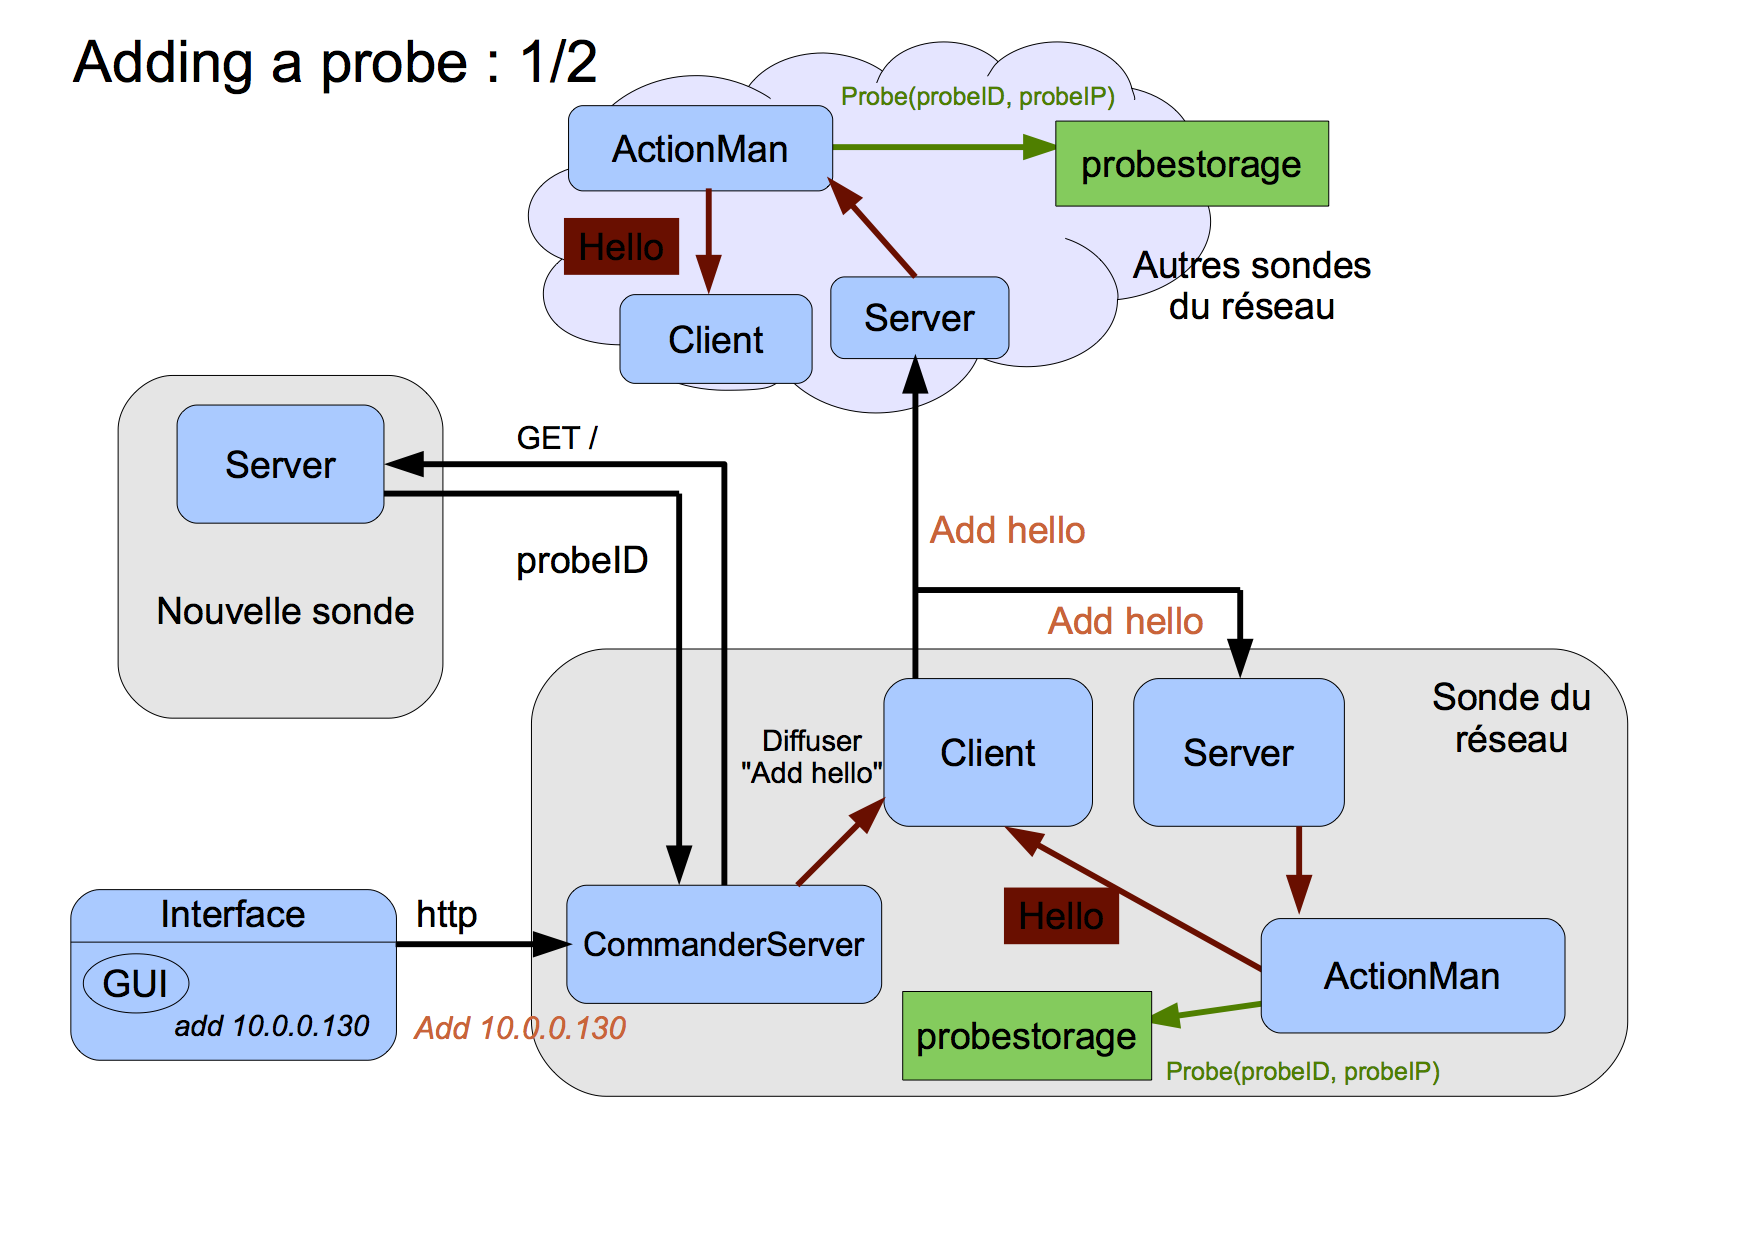
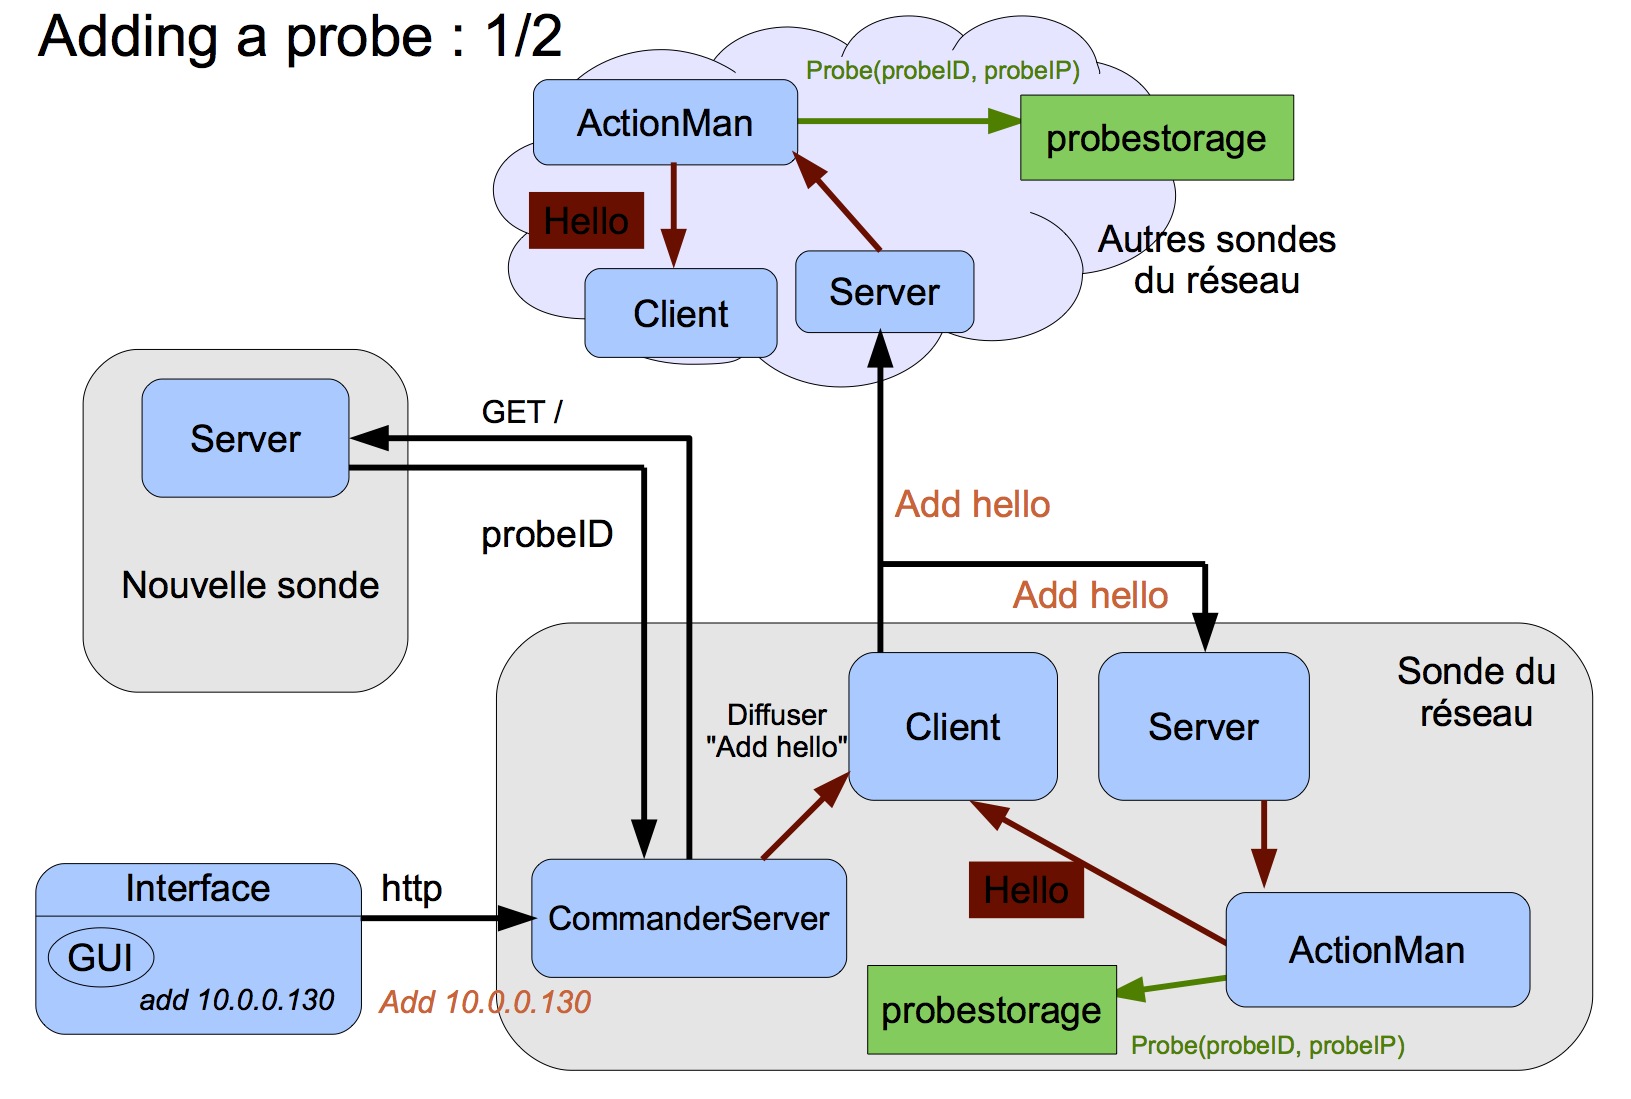
Page layout up do add section

diff --git a/docs/rapport/main.tex b/docs/rapport/main.tex
@@ -108,25 +108,20 @@
 \tableofcontents
 
 \section{NetProbes : un programme de diagnostic réseau distribué}
-Le but de ce programme est de permettre d'effectuer des tests sur un réseau donnée.
+Le but de ce programme est de permettre d'effectuer des tests sur un réseau donné.
 
-Après avoir établit un réseau de sondes par dessus le réseau test via http, on pourra lancer les tests de notre choix sur ce réseau et collecter les résultats pour analyse.
+Après avoir établi un réseau de sondes au-dessus du réseau test via http, on pourra lancer les tests de notre choix sur ce réseau et collecter les résultats pour analyse.
 
-L'architecture de l'application nous permet d'implémenter des tests à la volée. En effet, il suffit de placer un module python implémentant les bonnes fonctions dans le dossier probe/tests afin que le nouveau test puisse être utilisé. Notre but a donc plus été de proposer une méthode de synchronisation autour des tests que le code des tests eux-mêmes.
+L'architecture de l'application nous permet d'implémenter des tests "à la volée". En effet, il suffit de placer un module python implémentant les bonnes fonctions dans le dossier probe/tests afin que le nouveau test puisse être utilisé. Notre but a donc plus été de proposer une méthode de synchronisation autour des tests plutôt que le code des tests eux-mêmes. Cependant, nous avons implémenté trois tests basiques : unicast, multicast et broadcast.
 
 \section{Guide de l'utilisateur}
 
 \subsection{Prérequis}
 \begin{description}
 \item[Python3] l'interpréteur python est requis. Nous avons développé notre application pour la version 3.3.\\
-Pour plus d'information sur l'installation de Python3, consulter cette page :
-\begin{center}
-\href{http://docs.activestate.com/activepython/3.2/diveintopython3/html/installing-python.html}{http://docs.activestate.com/activepython/3.2/diveintopython3/html/installing-python.html}
-\end{center}
-
+Pour plus d'information sur l'installation de Python3, consulter cette page : \href{http://www.python.org/download/releases/3.3.2/}{http://www.python.org/download/releases/3.3.2/}
 \item[Connexion HTTP] une connexion HTTP entre les sondes est requise afin de permettre la synchronisation autour des tests et les opération de construction du réseau de sonde.
 \end{description}
-
 
 \subsection{Installation}
 \begin{enumerate}
@@ -134,7 +129,7 @@ Pour plus d'information sur l'installation de Python3, consulter cette page :
 \item Se placer en ligne de commande dans un des sous-dossier : commander ou probe.
 \item Lancer l'exécutable python : main.py
 \end{enumerate}
-Remarque: dans les exemples sous Windows suivants, Python3 a été ajouté au path via une commande du type:
+Remarque: dans les exemples sous Windows suivants, Python3 a éventuellement été ajouté au path via une commande du type:
 \begin{center} \texttt{{\color{blue}C:$\backslash$...$\backslash$NetProbes$>$}path \%path\%;c:$\backslash$python33} \end{center}
 
 \subsection{Manuel d'utilisation}
@@ -148,7 +143,7 @@ Sous Windows:\\
 \texttt{{\color{blue}C:$\backslash$...$\backslash$NetProbes$\backslash$app$\backslash$probe$>$}python main.py -h}
 
 \subsubsection{Sondes : package probe}
-La première étape de l'utilisation de notre outil consister à faire tourner plusieurs sonde sur différentes machines connectées à un même réseau. L'utilisation des sondes est transparente et autonome. Les commandes d'ajout/suppression et de test étant effectuées par l'interface utilisateur.
+La première étape de l'utilisation de notre outil consister à faire tourner plusieurs sonde sur différentes machines connectées à un même réseau. L'utilisation des sondes est transparente et autonome. Les commandes d'ajout/suppression et de tests étant effectuées par l'interface utilisateur.
 
 Une sonde se lance par une simple exécution du programme python \texttt{main.py}.
 
@@ -198,15 +193,15 @@ Les commandes supportés sont les suivantes :
 Les résultats sont automatiquement affichés lorsqu'ils sont disponibles sur la sonde commandée dans le panneau prévu à cet effet.
 
 
-\subsection{Exemples}
+\subsubsection{Exemples}
 % Mettre un capture d'écran avec des meilleurs noms
-\subsubsection{Ajouter des sondes}
+\subsubsection*{Ajouter des sondes}
 \texttt{add 10.0.0.148}\\
 \indent\texttt{add 10.0.0.130}
 
-\subsubsection{Effectuer des tests}
-\texttt{do unicast tangente --port 5611 --protocol tcp}\\
-\indent\texttt{do unicast vaneau --timeout 2 --protocol udp}\\
+\subsubsection*{Effectuer des tests}
+\texttt{do unicast r --port 5611 --protocol tcp}\\
+\indent\texttt{do unicast r --timeout 2 --protocol udp}\\
 \indent\texttt{do broadcast --port 7267 --timeout 3.5 }\\
 \indent\texttt{do multicast vaneau tangente --port 12456 --timeout 3.4 --ttl 20 -ma 224.4.6.6}\\
 \indent\texttt{do empty}
@@ -232,19 +227,25 @@ Une sonde est composé dans sa version la plus simple de 3 threads et de 3 struc
 \item Le thread \cd{Server} écoute les requêtes HTTP sur le port de communication interne des sondes et transforme les messages reçu en actions qu'il stocke dans une file d'attente.
 \item Le thread \cd{ActionMan} dépile les actions dans l'ordre de priorité et les exécute.
 \end{itemize}
-Le commander est un thread à part qui peut même être lancé à partir d'une machine sur laquelle ne tourne aucune sonde. Ce programme prend en entrée une machine (adresse IP) sur laquelle fonctionne une sonde avec qui communiquer. Il utilise cette sonde pour connaître le réseaux et déclencher des tests.
-Les threads mis en jeu sont :
-\begin{itemize}
-\item Le thread \cd{Interface} graphique (GUI) ou en ligne de commande (CLI), elle est à la fois le serveur et le client qui permet de communiquer avec une sonde commandée.
-\item Le thread \cd{CommanderServer} tourne sur la sonde et écoute les requêtes HTTP sur le port de communication "commander" des sondes. Il réagit immédiatement aux messages reçu du commander.
-\end{itemize}
-
 \begin{figure}[!ht]
+\begin{minipage}[c]{0.3\linewidth}
+
+Le commander est un thread à part qui peut même être lancé à partir d'une machine sur laquelle ne tourne aucune sonde. Ce programme prend en entrée une machine (adresse IP) sur laquelle fonctionne une sonde avec qui communiquer. Il utilise cette sonde pour connaitre le réseau et déclencher des tests.
+\end{minipage}
+\hfill
+\begin{minipage}[c]{0.7\linewidth}
+
 \centering\includegraphics[width=\linewidth]{img/graphCommander.png}
 \caption{Fonctionnement d'une sonde}
+\end{minipage}
 \end{figure}
+\FloatBarrier
 
-
+Les threads mis en jeu sont :
+\begin{description}
+\item[Le thread \cd{Interface} graphique (GUI) ou en ligne de commande (CLI)], elle est à la fois le serveur et le client qui permet de communiquer avec une sonde commandée.
+\item[Le thread \cd{CommanderServer}] tourne sur la sonde et écoute les requêtes HTTP sur le port de communication "commander" des sondes. Il réagit immédiatement aux messages reçu du commander.
+\end{description}
 Lors de l'exécution d'un test, un thread particulier, est lancé par les sondes. Le thread \cd{ActionMan} est bloqué jusqu'à l'arrêt du test.
 \begin{itemize}
 \item \cd{TestManager} pour la sonde qui exécute le test.
@@ -252,7 +253,7 @@ Lors de l'exécution d'un test, un thread particulier, est lancé par les sondes
 \end{itemize}
 
 \begin{figure}[!ht]
-\centering\includegraphics[width=\linewidth]{img/graphTest.png}
+\centering\includegraphics[width=0.8\linewidth]{img/graphTest.png}
 \caption{Fonctionnement alternatif lors d'un test}
 \end{figure}
 
@@ -275,7 +276,7 @@ Détail des étapes lors de l'ajout d'une sonde au réseau :
 \end{itemize}
 
 \begin{figure}[!ht]
-\centering\includegraphics[width=\linewidth]{img/graphAdd1.png}
+\centering\includegraphics[width=0.8\linewidth]{img/graphAdd1.png}
 \caption{Ajout d'une sonde - Etape 1}
 \end{figure}
 
@@ -287,7 +288,7 @@ Détail des étapes lors de l'ajout d'une sonde au réseau :
 \end{itemize}
 
 \begin{figure}[!ht]
-\centering\includegraphics[width=\linewidth]{img/graphAdd2.png}
+\centering\includegraphics[width=0.6\linewidth]{img/graphAdd2.png}
 \caption{Ajout d'une sonde - Etape 2}
 \end{figure}
 
@@ -317,12 +318,12 @@ Détail des étapes lors de l'exécution d'un test :
 
 
 \begin{figure}[!ht]
-\centering\includegraphics[width=\linewidth]{img/graphTest1.png}
+\centering\includegraphics[width=0.8\linewidth]{img/graphTest1.png}
 \caption{Exécution d'un test - Etape 1}
 \end{figure}
 
 \begin{figure}[!ht]
-\centering\includegraphics[width=\linewidth]{img/graphTest2.png}
+\centering\includegraphics[width=0.8\linewidth]{img/graphTest2.png}
 \caption{Exécution d'un test - Etape 2}
 \end{figure}
 
